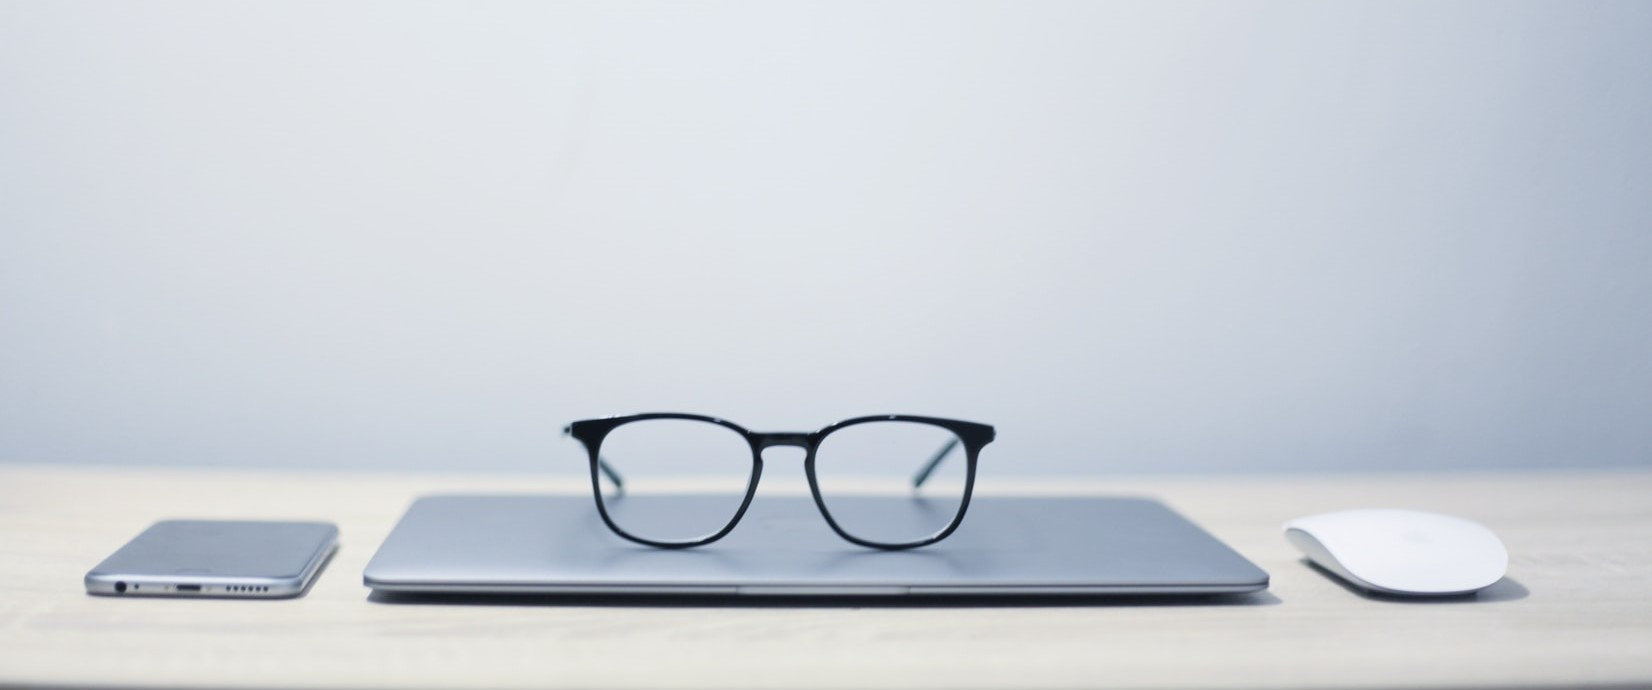
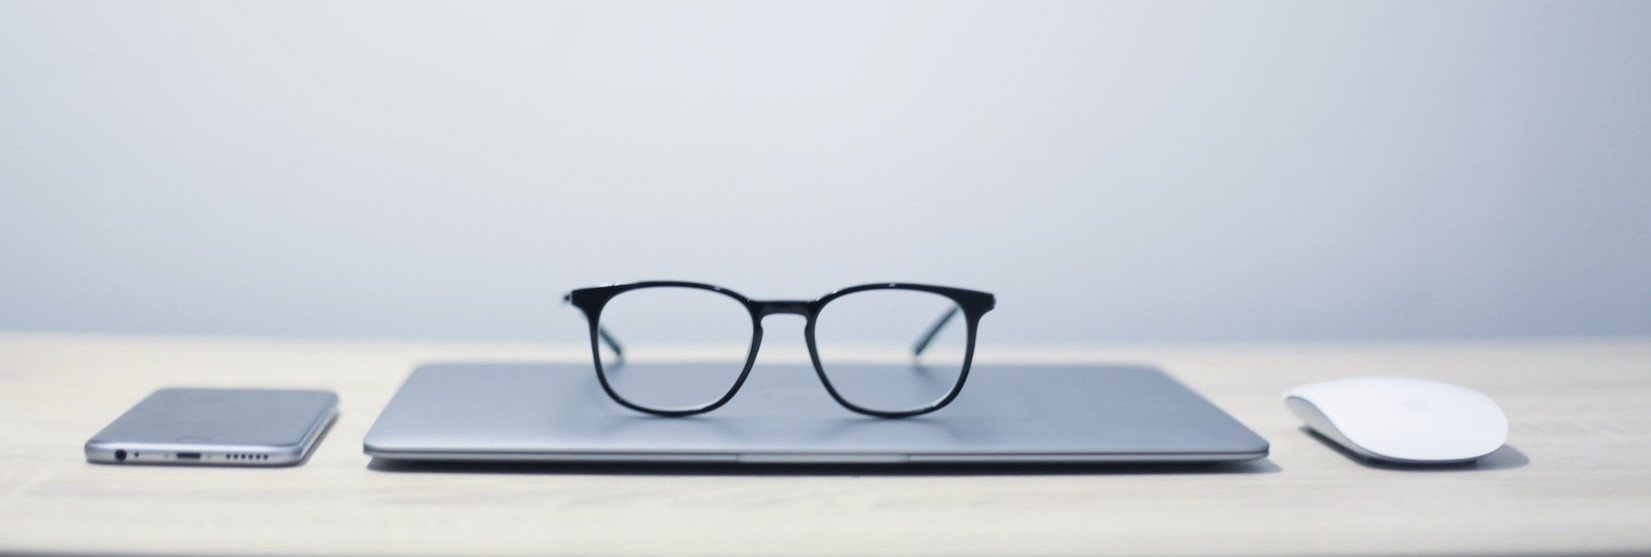
added header

Changed region(s): [[0.0, 0.4883, 1.0, 0.8851]]

diff --git a/src/components/Layout.vue b/src/components/Layout.vue
@@ -1,11 +1,10 @@
 <template>
   <div>
     <section>
-      <div style="padding-top: 350px; padding-bottom: 50px;">
-        <blockquote class="blockquote container-sm text-left">
-          <p><em>A backend/full stack engineer interested in web development and machine learning</em></p>
-        </blockquote>
-      </div>
+      <b-card overlay class="mt-5" img-src="img/header.jpg"
+       title="Hello! I'm Nancy Li">
+       <em>A Backend & Full Stack Engineer interested in web development and machine learning </em>
+      </b-card>
     </section>
 
     <section id ="about">
